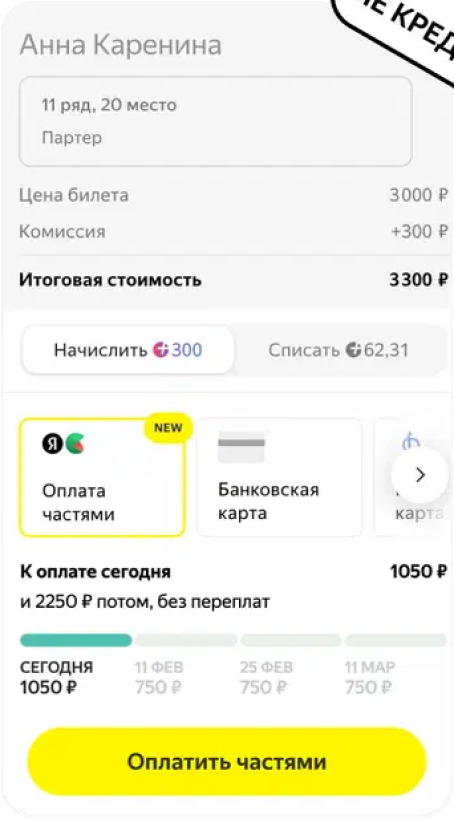
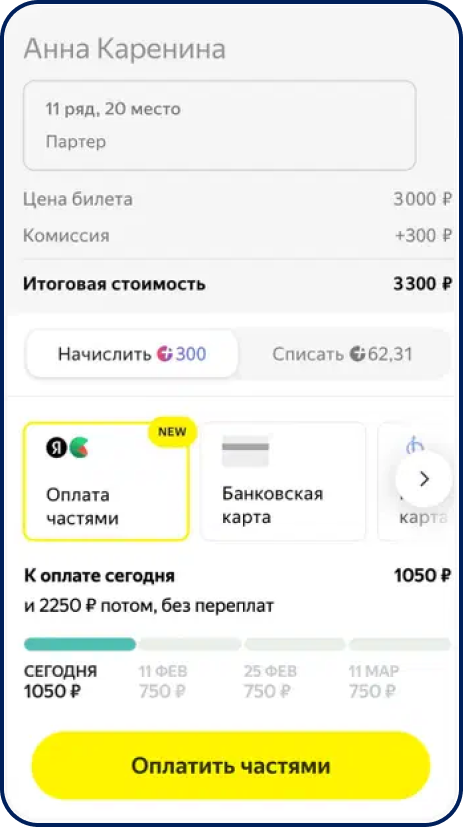
feat: add adaptive demonstrator

diff --git a/assets/css/season-ticket.css b/assets/css/season-ticket.css
@@ -368,6 +368,10 @@
   margin-bottom: 57px;
 }
 
+.demonstrator__title span {
+  white-space: nowrap;
+}
+
 .demonstrator__inner {
   display: flex;
 }
@@ -403,13 +407,21 @@
   margin-right: 48px;
 }
 
+.demonstrator__description {
+  color: #00205B;
+  font-family: Manrope;
+  font-size: 20px;
+  font-weight: 500;
+  line-height: 170%; /* 34px */
+  letter-spacing: 0.6px;
+}
+
 .demonstrator__image {
   max-width: 454px;
   max-height: 820px;
   min-width: 454px;
   min-height: 820px;
   border-radius: 35px;
-  border: 4px solid #00205B;
   overflow: hidden;
 }
 
@@ -430,6 +442,46 @@
     height: 63px;
     font-size: 27px;
     letter-spacing: 0.81px;
+  }
+
+  /* ================ demonstrator	*/
+  .demonstrator__inner {
+    justify-content: space-between;
+  }
+
+  .demonstrator__list {
+    margin-right: 0;
+  }
+
+  .demonstrator__item {
+    max-width: 615px;
+    min-width: 615px;
+    max-height: 140px;
+    min-height: 140px;
+    padding: 0 57px;
+  }
+
+  .demonstrator__item:not(:last-child) {
+    margin-bottom: 41px;
+  }
+
+  .demonstrator__number {
+    font-size: 80px;
+    line-height: 82px; /* 101.894% */
+    letter-spacing: -0.8px;
+    margin-right: 48px;
+  }
+
+  .demonstrator__description {
+    font-size: 16px;
+    letter-spacing: 0.48px;
+  }
+
+  .demonstrator__image {
+    max-width: 382px;
+    max-height: 688px;
+    min-width: 382px;
+    min-height: 688px;
   }
 }
 
@@ -580,39 +632,45 @@
     margin-bottom: 42px;
   }
 
+  .demonstrator__image {
+    border-radius: 30px;
+  }
+}
+
+@media screen and (max-width: 1200px) {
+  /* ================ demonstrator	*/
   .demonstrator__inner {
-    display: flex;
+    flex-direction: column;
   }
 
   .demonstrator__list {
-    margin-right: 116px;
+    margin-bottom: 35px;
   }
 
   .demonstrator__item {
-    max-width: 615px;
-    min-width: 615px;
+    max-width: 100%;
+    min-width: 100%;
     max-height: 140px;
     min-height: 140px;
-    padding: 0 57px;
   }
 
   .demonstrator__item:not(:last-child) {
-    margin-bottom: 41px;
+    margin-bottom: 25px;
   }
 
   .demonstrator__number {
-    font-size: 80px;
-    line-height: 81.515px; /* 101.894% */
+    line-height: 82px; /* 101.894% */
     letter-spacing: -0.8px;
-    margin-right: 40px;
+    margin-right: 33px;
   }
 
   .demonstrator__image {
-    max-width: 382px;
-    max-height: 688px;
-    min-width: 382px;
-    min-height: 688px;
-    border: 3px solid #00205B;
+    max-width: 277px;
+    max-height: 499px;
+    min-width: 277px;
+    min-height: 499px;
+    margin: 0 auto;
+    border-radius: 21px;
   }
 }
 
@@ -745,47 +803,13 @@
 
   /* ================ demonstrator	*/
   .demonstrator {
-    padding-bottom: 104px;
+    padding-bottom: 80px;
   }
 
   .demonstrator__title {
-    font-size: 70px;
-    margin-bottom: 42px;
-  }
-
-  .demonstrator__inner {
-    display: flex;
-  }
-
-  .demonstrator__list {
-    margin-right: 116px;
-  }
-
-  .demonstrator__item {
-    max-width: 615px;
-    min-width: 615px;
-    max-height: 140px;
-    min-height: 140px;
-    padding: 0 57px;
-  }
-
-  .demonstrator__item:not(:last-child) {
-    margin-bottom: 41px;
-  }
-
-  .demonstrator__number {
-    font-size: 80px;
-    line-height: 81.515px; /* 101.894% */
-    letter-spacing: -0.8px;
-    margin-right: 40px;
-  }
-
-  .demonstrator__image {
-    max-width: 382px;
-    max-height: 688px;
-    min-width: 382px;
-    min-height: 688px;
-    border: 3px solid #00205B;
+    font-size: 50px;
+    letter-spacing: -1.8px;
+    margin-bottom: 32px;
   }
 }
 
@@ -904,7 +928,7 @@
   .balls__title {
     font-size: 40px;
     letter-spacing: -1.8px;
-    margin-bottom: 32px;
+    margin-bottom: 30px;
   }
 
   .balls__list {
@@ -926,5 +950,38 @@
   .balls__description {
     max-width: 100%;
     font-size: 14px;
+  }
+
+  /* ================ demonstrator	*/
+  .demonstrator {
+    padding-bottom: 70px;
+  }
+
+  .demonstrator__title {
+    font-size: 40px;
+    letter-spacing: -1.8px;
+    margin-bottom: 30px;
+  }
+
+  .demonstrator__item {
+    max-height: fit-content;
+    min-height: fit-content;
+    padding: 15px;
+  }
+
+  .demonstrator__number {
+    margin-right: 22px;
+  }
+
+  .demonstrator__description {
+    font-size: 14px;
+    letter-spacing: 0.42px;
+  }
+
+  .demonstrator__image {
+    max-width: 257px;
+    max-height: 462px;
+    min-width: 257px;
+    min-height: 462px;
   }
 }

diff --git a/season-ticket.html b/season-ticket.html
@@ -648,7 +648,7 @@
     <!--(component:demonstrator)-->
     <section class="demonstrator">
       <div class="cover">
-        <h2 class="demonstrator__title">Как работает рассрочка Яндекс Сплит</h2>
+        <h2 class="demonstrator__title">Как работает рассрочка <br><span>Яндекс Сплит</span></h2>
         <div class="demonstrator__inner">
           <ul class="demonstrator__list">
             <li class="demonstrator__item">
